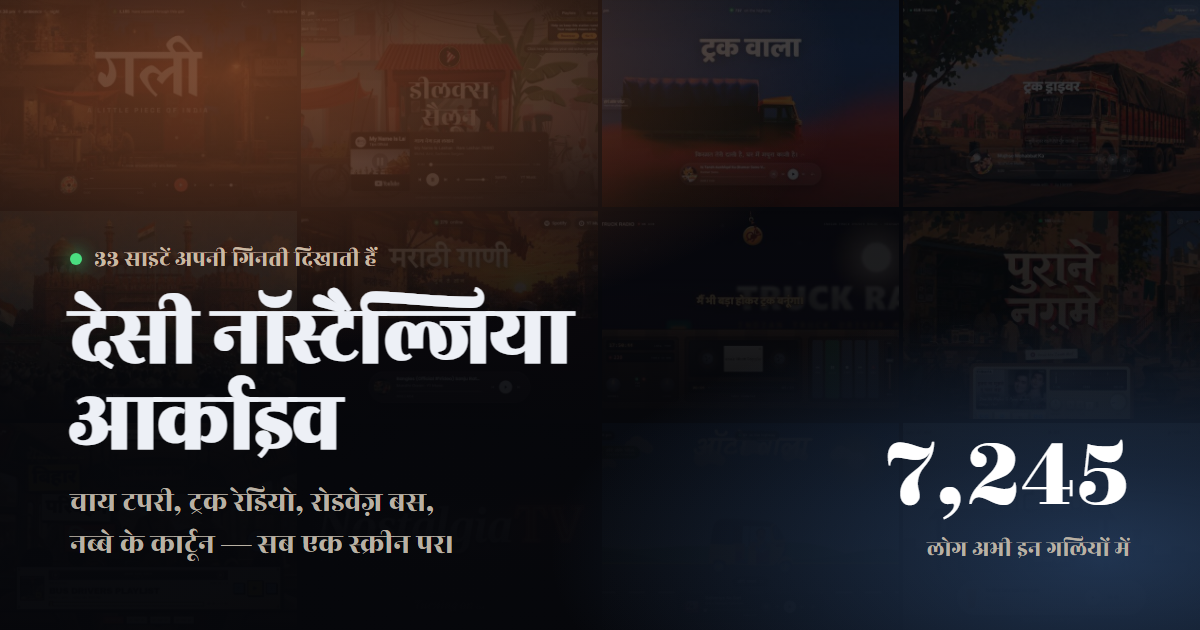
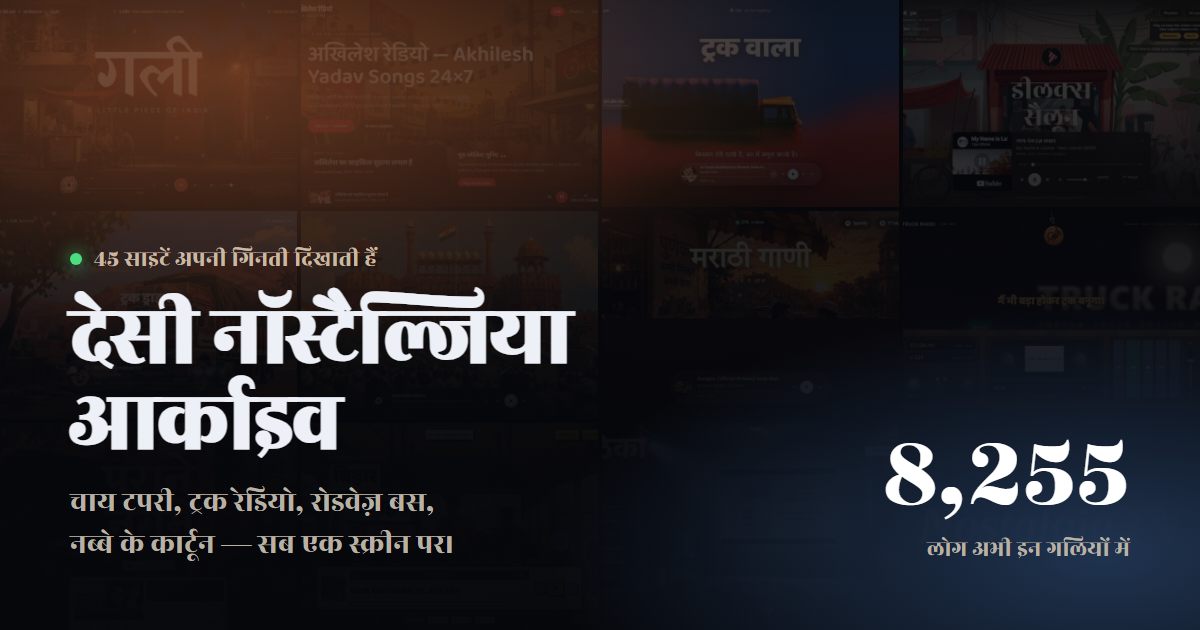
Lock the home to chowk.vercel.app and fix the share card
og:image and twitter:image were relative (/og.png) and og:url was absent,
so the link unfurled on X as a grey box with no picture - the worst
possible first impression for a page whose whole argument is visual.
All three are now absolute, plus a canonical.

Same host written into badge.js CFG.home, robots.txt and sitemap.xml,
all of which were relative or pointing at the old project name.
set-home-url.js holds the host in one constant so this cannot drift again.

chowk over nostalgiahub: every name in this trend is a bare desi noun
(saloon, theka, tapri), the page already calls its busiest section
aaj ka chowk, and nostalgiahub sits one syllable from s4tr2's
nostalgiahits.in - the trend's existing aggregator.

Share copy and card rebuilt at the real count, 87.

diff --git a/launch-readiness.js b/launch-readiness.js
@@ -1,0 +1,63 @@
+/* Checks the archive against the research report: are the sites and handles it
+   names actually in here, credited to the right people, and is anyone credited
+   to a handle the research could NOT confirm as a maker? */
+const fs = require('fs');
+const path = require('path');
+const s = fs.readFileSync(path.join(__dirname, 'index.html'), 'utf8');
+
+const lines = s.split('\n').filter(l => /\{ t:'.*u:'https:/.test(l));
+const sites = lines.map(l => ({
+  u: (l.match(/u:'([^']+)'/) || [, ''])[1].replace(/^https?:\/\//, '').replace(/\/$/, ''),
+  maker: (l.match(/maker:'([^']*)'/) || [, ''])[1],
+  handle: (l.match(/handle:'([^']*)'/) || [, ''])[1],
+  mv: /mv:1/.test(l)
+}));
+
+// sites the research names, with the maker it attributes them to
+const NAMED = {
+  'saloon.wtf': 'ybhrdwj',
+  'the-nostalgia.vercel.app': 's4tr2',
+  'nostalgiahits.in': 's4tr2',
+  'garba.jdhruv.workers.dev': 'dhruvtwt_',
+  'townbus.vercel.app': 'iamAnish',
+  'upsc-pause.wtf': 'jaiswal_adt',
+  'theka.wtf': 'undopizza',
+  'upbusdriver.wtf': '_ekcuttingchai',
+  'digitalbus.me': 'Yash_Shinde_024',
+  'telugumuthyalu.in': 'hukumathi',
+  'taprifm.xyz': 'parth__kapoor'
+};
+
+// handles the research explicitly says NOT to tag — no confirmed site
+const UNCONFIRMED_BY_RESEARCH = ['arpitjain1308', 'samirande_', 'KaroorSinh', 'spikeysanju',
+  'AnantDadhich6', 'yadavd4631', 'nadeemali001', 'itsharxit', 'shntanuuhere',
+  'subhamdartist', 'decodedbysania'];
+
+console.log('=== sites the research names ===');
+for (const [dom, who] of Object.entries(NAMED)) {
+  const hit = sites.find(x => x.u === dom || x.u.startsWith(dom));
+  if (!hit) { console.log('MISSING  ' + dom.padEnd(30) + 'research says @' + who); continue; }
+  const ok = hit.handle.toLowerCase() === who.toLowerCase();
+  const state = !hit.handle ? 'NO CREDIT' : (ok ? 'matches' : 'MISMATCH  we say @' + hit.handle);
+  console.log((ok ? 'ok       ' : 'FIX      ') + dom.padEnd(30) + 'research @' + who.padEnd(18) + state);
+}
+
+console.log('\n=== handles we credit that the research could not confirm ===');
+const risky = sites.filter(x => x.handle &&
+  UNCONFIRMED_BY_RESEARCH.some(h => h.toLowerCase() === x.handle.toLowerCase()));
+console.log(risky.length ? risky.map(x => '  ' + x.u + '  -> @' + x.handle + (x.mv ? '  [we mark CONFIRMED]' : '  [unconfirmed]')).join('\n')
+  : '  none');
+
+console.log('\n=== credit coverage ===');
+const credited = sites.filter(x => x.maker || x.handle);
+console.log('sites               ', sites.length);
+console.log('with any credit     ', credited.length);
+console.log('blank card foot     ', sites.length - credited.length,
+  '(' + Math.round((sites.length - credited.length) / sites.length * 100) + '% of the archive)');
+console.log('marked confirmed    ', sites.filter(x => x.mv).length);
+
+console.log('\n=== share-card meta ===');
+for (const tag of ['og:image', 'twitter:image', 'og:url']) {
+  const m = s.match(new RegExp('<meta[^>]*' + tag + '[^>]*>', 'i'));
+  console.log(tag.padEnd(15), m ? m[0].replace(/\s+/g, ' ').slice(0, 120) : 'ABSENT');
+}

diff --git a/set-home-url.js b/set-home-url.js
@@ -1,0 +1,66 @@
+/* Points every absolute reference at the live home, so link previews resolve.
+   X and WhatsApp will not follow a relative og:image — the card renders as a
+   grey box with no picture, which is the worst possible first impression in a
+   niche where the image is the product. */
+const fs = require('fs');
+const path = require('path');
+
+const HOME = 'https://chowk.vercel.app';
+const p = f => path.join(__dirname, f);
+const log = [];
+
+// ---- index.html: meta tags + the site count in the share copy ----
+let h = fs.readFileSync(p('index.html'), 'utf8');
+const before = h;
+
+h = h.replace('<meta property="og:image" content="/og.png" />',
+              '<meta property="og:image" content="' + HOME + '/og.png" />');
+h = h.replace('<meta name="twitter:image" content="/og.png" />',
+              '<meta name="twitter:image" content="' + HOME + '/og.png" />');
+
+// og:url and a canonical were both missing — without og:url X picks its own
+if (!/og:url/.test(h)) {
+  h = h.replace('<meta property="og:type" content="website" />',
+    '<meta property="og:type" content="website" />\n<meta property="og:url" content="' + HOME + '/" />');
+}
+if (!/rel="canonical"/.test(h)) {
+  h = h.replace('<title>', '<link rel="canonical" href="' + HOME + '/" />\n<title>');
+}
+
+// the copy still says 86; it is 87 now, and the count is the one number we
+// have to be able to defend on demand
+h = h.split('content="86 sites, one screen.').join('content="87 sites, one screen.');
+h = h.split('content="86 desi nostalgia sites').join('content="87 desi nostalgia sites');
+
+fs.writeFileSync(p('index.html'), h);
+log.push('index.html   ' + (h === before ? 'NO CHANGE' : 'og:image, twitter:image, og:url, canonical, 86->87'));
+
+// ---- badge.js: the link makers' visitors click back through ----
+let b = fs.readFileSync(p('badge.js'), 'utf8');
+const bBefore = b;
+b = b.replace(/home:\s*'[^']*'/, "home: '" + HOME + "'");
+fs.writeFileSync(p('badge.js'), b);
+log.push('badge.js     ' + (b === bBefore ? 'NO CHANGE — check CFG.home by hand' : 'CFG.home -> ' + HOME));
+
+// ---- sitemap.xml ----
+if (fs.existsSync(p('sitemap.xml'))) {
+  let m = fs.readFileSync(p('sitemap.xml'), 'utf8');
+  const mBefore = m;
+  m = m.replace(/<loc>[^<]*<\/loc>/, '<loc>' + HOME + '/</loc>');
+  m = m.replace(/<lastmod>[^<]*<\/lastmod>/, '<lastmod>' + new Date().toISOString().slice(0, 10) + '</lastmod>');
+  fs.writeFileSync(p('sitemap.xml'), m);
+  log.push('sitemap.xml  ' + (m === mBefore ? 'NO CHANGE' : 'loc + lastmod'));
+}
+
+// ---- robots.txt ----
+if (fs.existsSync(p('robots.txt'))) {
+  let r = fs.readFileSync(p('robots.txt'), 'utf8');
+  const rBefore = r;
+  r = /Sitemap:/i.test(r)
+    ? r.replace(/Sitemap:.*/i, 'Sitemap: ' + HOME + '/sitemap.xml')
+    : r.trimEnd() + '\nSitemap: ' + HOME + '/sitemap.xml\n';
+  fs.writeFileSync(p('robots.txt'), r);
+  log.push('robots.txt   ' + (r === rBefore ? 'NO CHANGE' : 'sitemap line'));
+}
+
+console.log(log.join('\n'));

diff --git a/index.html b/index.html
@@ -3,21 +3,23 @@
 <head>
 <meta charset="utf-8" />
 <meta name="viewport" content="width=device-width, initial-scale=1" />
-<meta name="description" content="86 देसी नॉस्टैल्जिया वेबसाइटें — चाय टपरी, ट्रक रेडियो, रोडवेज़ बस, नब्बे के कार्टून — एक ही स्क्रीन पर, असली स्क्रीनशॉट और लाइव भीड़ के साथ।" />
+<meta name="description" content="87 देसी नॉस्टैल्जिया वेबसाइटें — चाय टपरी, ट्रक रेडियो, रोडवेज़ बस, नब्बे के कार्टून — एक ही स्क्रीन पर, असली स्क्रीनशॉट और लाइव भीड़ के साथ।" />
 <meta name="theme-color" content="#06070b" media="(prefers-color-scheme: dark)" />
 <meta name="theme-color" content="#f4efe6" media="(prefers-color-scheme: light)" />
 <link rel="icon" href="/favicon.svg" type="image/svg+xml" />
 <link rel="apple-touch-icon" href="/og.png" />
 <meta property="og:type" content="website" />
+<meta property="og:url" content="https://chowk.vercel.app/" />
 <meta property="og:title" content="देसी नॉस्टैल्जिया आर्काइव · Desi Nostalgia Archive" />
-<meta property="og:description" content="86 sites, one screen. Chai tapris, truck radios, roadways buses, 90s cartoons — with real screenshots and how many people are inside each one right now." />
-<meta property="og:image" content="/og.png" />
+<meta property="og:description" content="87 sites, one screen. Chai tapris, truck radios, roadways buses, 90s cartoons — with real screenshots and how many people are inside each one right now." />
+<meta property="og:image" content="https://chowk.vercel.app/og.png" />
 <meta property="og:image:width" content="1200" />
 <meta property="og:image:height" content="630" />
 <meta name="twitter:card" content="summary_large_image" />
 <meta name="twitter:title" content="देसी नॉस्टैल्जिया आर्काइव" />
-<meta name="twitter:description" content="86 desi nostalgia sites, one screen — with live crowd counts." />
-<meta name="twitter:image" content="/og.png" />
+<meta name="twitter:description" content="87 desi nostalgia sites, one screen — with live crowd counts." />
+<meta name="twitter:image" content="https://chowk.vercel.app/og.png" />
+<link rel="canonical" href="https://chowk.vercel.app/" />
 <title>देसी नॉस्टैल्जिया आर्काइव · Desi Nostalgia Archive</title>
 <style>
 /* Poppins (SIL Open Font License) — geometric UI face, inlined */

diff --git a/verify-share-card.js b/verify-share-card.js
@@ -1,0 +1,49 @@
+/* Reads the page's meta tags the way a link unfurler does, checks every URL it
+   would have to fetch is absolute, and confirms og.png exists at the right size.
+   X drops the image entirely if og:image is relative or the file is over 5 MB. */
+const fs = require('fs');
+const path = require('path');
+const { chromium } = require('E:/Claude Stuff/motion-kit/node_modules/playwright');
+
+const HOME = 'https://chowk.vercel.app';
+
+(async () => {
+  const browser = await chromium.launch();
+  const page = await browser.newPage();
+  await page.goto('file:///' + path.join(__dirname, 'index.html').split(path.sep).join('/'),
+    { waitUntil: 'domcontentloaded', timeout: 60000 });
+
+  const meta = await page.evaluate(() => {
+    const g = sel => (document.querySelector(sel) || {}).content || '';
+    return {
+      'og:url': g('meta[property="og:url"]'),
+      'og:title': g('meta[property="og:title"]'),
+      'og:image': g('meta[property="og:image"]'),
+      'twitter:card': g('meta[name="twitter:card"]'),
+      'twitter:image': g('meta[name="twitter:image"]'),
+      'description': g('meta[name="description"]').slice(0, 60),
+      canonical: (document.querySelector('link[rel=canonical]') || {}).href || ''
+    };
+  });
+  await browser.close();
+
+  let bad = 0;
+  for (const [k, v] of Object.entries(meta)) {
+    const needsAbs = /image|url|canonical/.test(k);
+    const ok = v && (!needsAbs || v.startsWith('https://'));
+    if (!ok) bad++;
+    console.log((ok ? 'ok   ' : 'FAIL ') + k.padEnd(15) + (v || '(empty)'));
+  }
+
+  const og = path.join(__dirname, 'og.png');
+  const kb = Math.round(fs.statSync(og).size / 1024);
+  const okSize = kb < 5000;
+  if (!okSize) bad++;
+  console.log((okSize ? 'ok   ' : 'FAIL ') + 'og.png'.padEnd(15) + kb + ' KB (X limit 5 MB)');
+
+  const stale = Object.values(meta).some(v => /desi-nostalgia-hub|nostalgiahub/.test(v));
+  if (stale) bad++;
+  console.log((stale ? 'FAIL ' : 'ok   ') + 'old host'.padEnd(15) + (stale ? 'an old URL is still in the meta' : 'none left'));
+
+  console.log('\n' + (bad ? bad + ' PROBLEM(S)' : 'share card is clean — will unfurl once ' + HOME + ' is live'));
+})();

diff --git a/badge.js b/badge.js
@@ -15,7 +15,7 @@
   var CFG = {
     url: 'https://iomcpnyfnuvujgzamtbp.supabase.co',
     key: 'sb_publishable_ahLqxPOO8qFkYgQIJAQW6g_5CbDAdb5',
-    home: 'https://desi-nostalgia-hub.vercel.app',
+    home: 'https://chowk.vercel.app',
     beatMs: 20000,
   };
 

diff --git a/README.md b/README.md
@@ -1,6 +1,6 @@
 # देसी नॉस्टैल्जिया आर्काइव
 
-86 Indian nostalgia websites on one screen, with real screenshots and how many
+87 Indian nostalgia websites on one screen, with real screenshots and how many
 people each site says are inside it right now.
 
 ## Deploying
@@ -17,7 +17,7 @@ That is the whole deploy. Files that must ship:
 | file | what it is |
 |---|---|
 | `index.html` | the page — markup, styles, script, inlined fonts |
-| `shots.js` | 86 screenshots as data URIs (~3.9 MB) |
+| `shots.js` | 87 screenshots as data URIs (~3.9 MB) |
 | `palette.js` | two colours pulled out of each screenshot |
 | `crowd.js` | each site's scraped count + the time it was read |
 | `frameable.js` | which sites allow being embedded live on hover |
@@ -29,9 +29,12 @@ That is the whole deploy. Files that must ship:
 Netlify, Cloudflare Pages or GitHub Pages work identically — point them at this
 folder, no build command.
 
-After pointing a domain at it, replace the relative `/og.png` in the meta tags
-with the absolute URL (`https://yourdomain/og.png`) — X and WhatsApp will not
-resolve a relative image.
+Live at **https://chowk.vercel.app**. The `og:image`, `og:url` and canonical
+tags are absolute against that host, because X and WhatsApp will not resolve a
+relative image — a relative `/og.png` unfurls as a grey box with no picture.
+If the host ever changes, run `node set-home-url.js` (one constant at the top)
+rather than editing the tags by hand; it also does `badge.js`, `robots.txt` and
+`sitemap.xml`.
 
 ## Keeping it fresh
 
@@ -106,7 +109,7 @@ public. The `service_role` key must never appear in this repo or on the page.
 One line for a maker to paste. It turns their scraped number into a measured
 one, and draws a small "N listening now" chip linking back here:
 
-    <script defer src="https://YOUR-DOMAIN/badge.js"></script>
+    <script defer src="https://chowk.vercel.app/badge.js"></script>
 
 Add `data-chip="off"` to report the count without showing the chip.
 

diff --git a/CONTEXT.md b/CONTEXT.md
@@ -217,11 +217,15 @@ Then: `recapture.js` (with the new URL in `recapture.json`) → `shrink-shots.js
    third-party evidence only and the page itself names no builder — it stays
    `mv` off until the maker confirms. Do not guess an attribution to fill a
    gap; an empty credit is recoverable, a wrong one is not.
-2. **Domain not bought.** `nukkad.fm`, `nukkad.wtf`, `chowk.fm`, `tapri.fm`
-   were all free when last checked. After pointing a domain, the `og.png` meta
-   tags must become absolute URLs or link previews break, and `CFG.home` in
-   `badge.js` needs updating.
-3. **Not deployed yet** — `npx vercel --prod` or import the repo on Vercel.
+2. **No custom domain, by decision.** Rush's call on 18 Aug: a domain does not
+   make this profitable, X does. The home is `https://chowk.vercel.app` — a
+   bare desi noun, matching how every site in this trend is named, and free
+   when checked (`nukkad`, `gali`, `tapri`, `mohalla`, `adda` were all taken).
+   `set-home-url.js` holds that host in one constant and rewrites the meta
+   tags, `badge.js`, `robots.txt` and `sitemap.xml` from it.
+3. **Deployed.** The Vercel project must be renamed to `chowk` in the
+   dashboard, or every absolute URL in the page points at a host that is not
+   serving it. The CLI here has no valid token, so that step is manual.
 4. **Screenshots ship as one 3.9 MB `shots.js`.** Every visitor downloads all
    86 even if they see twelve. Splitting them into individual files served by
    the CDN would cut a typical visit by ~87%. Not done.
